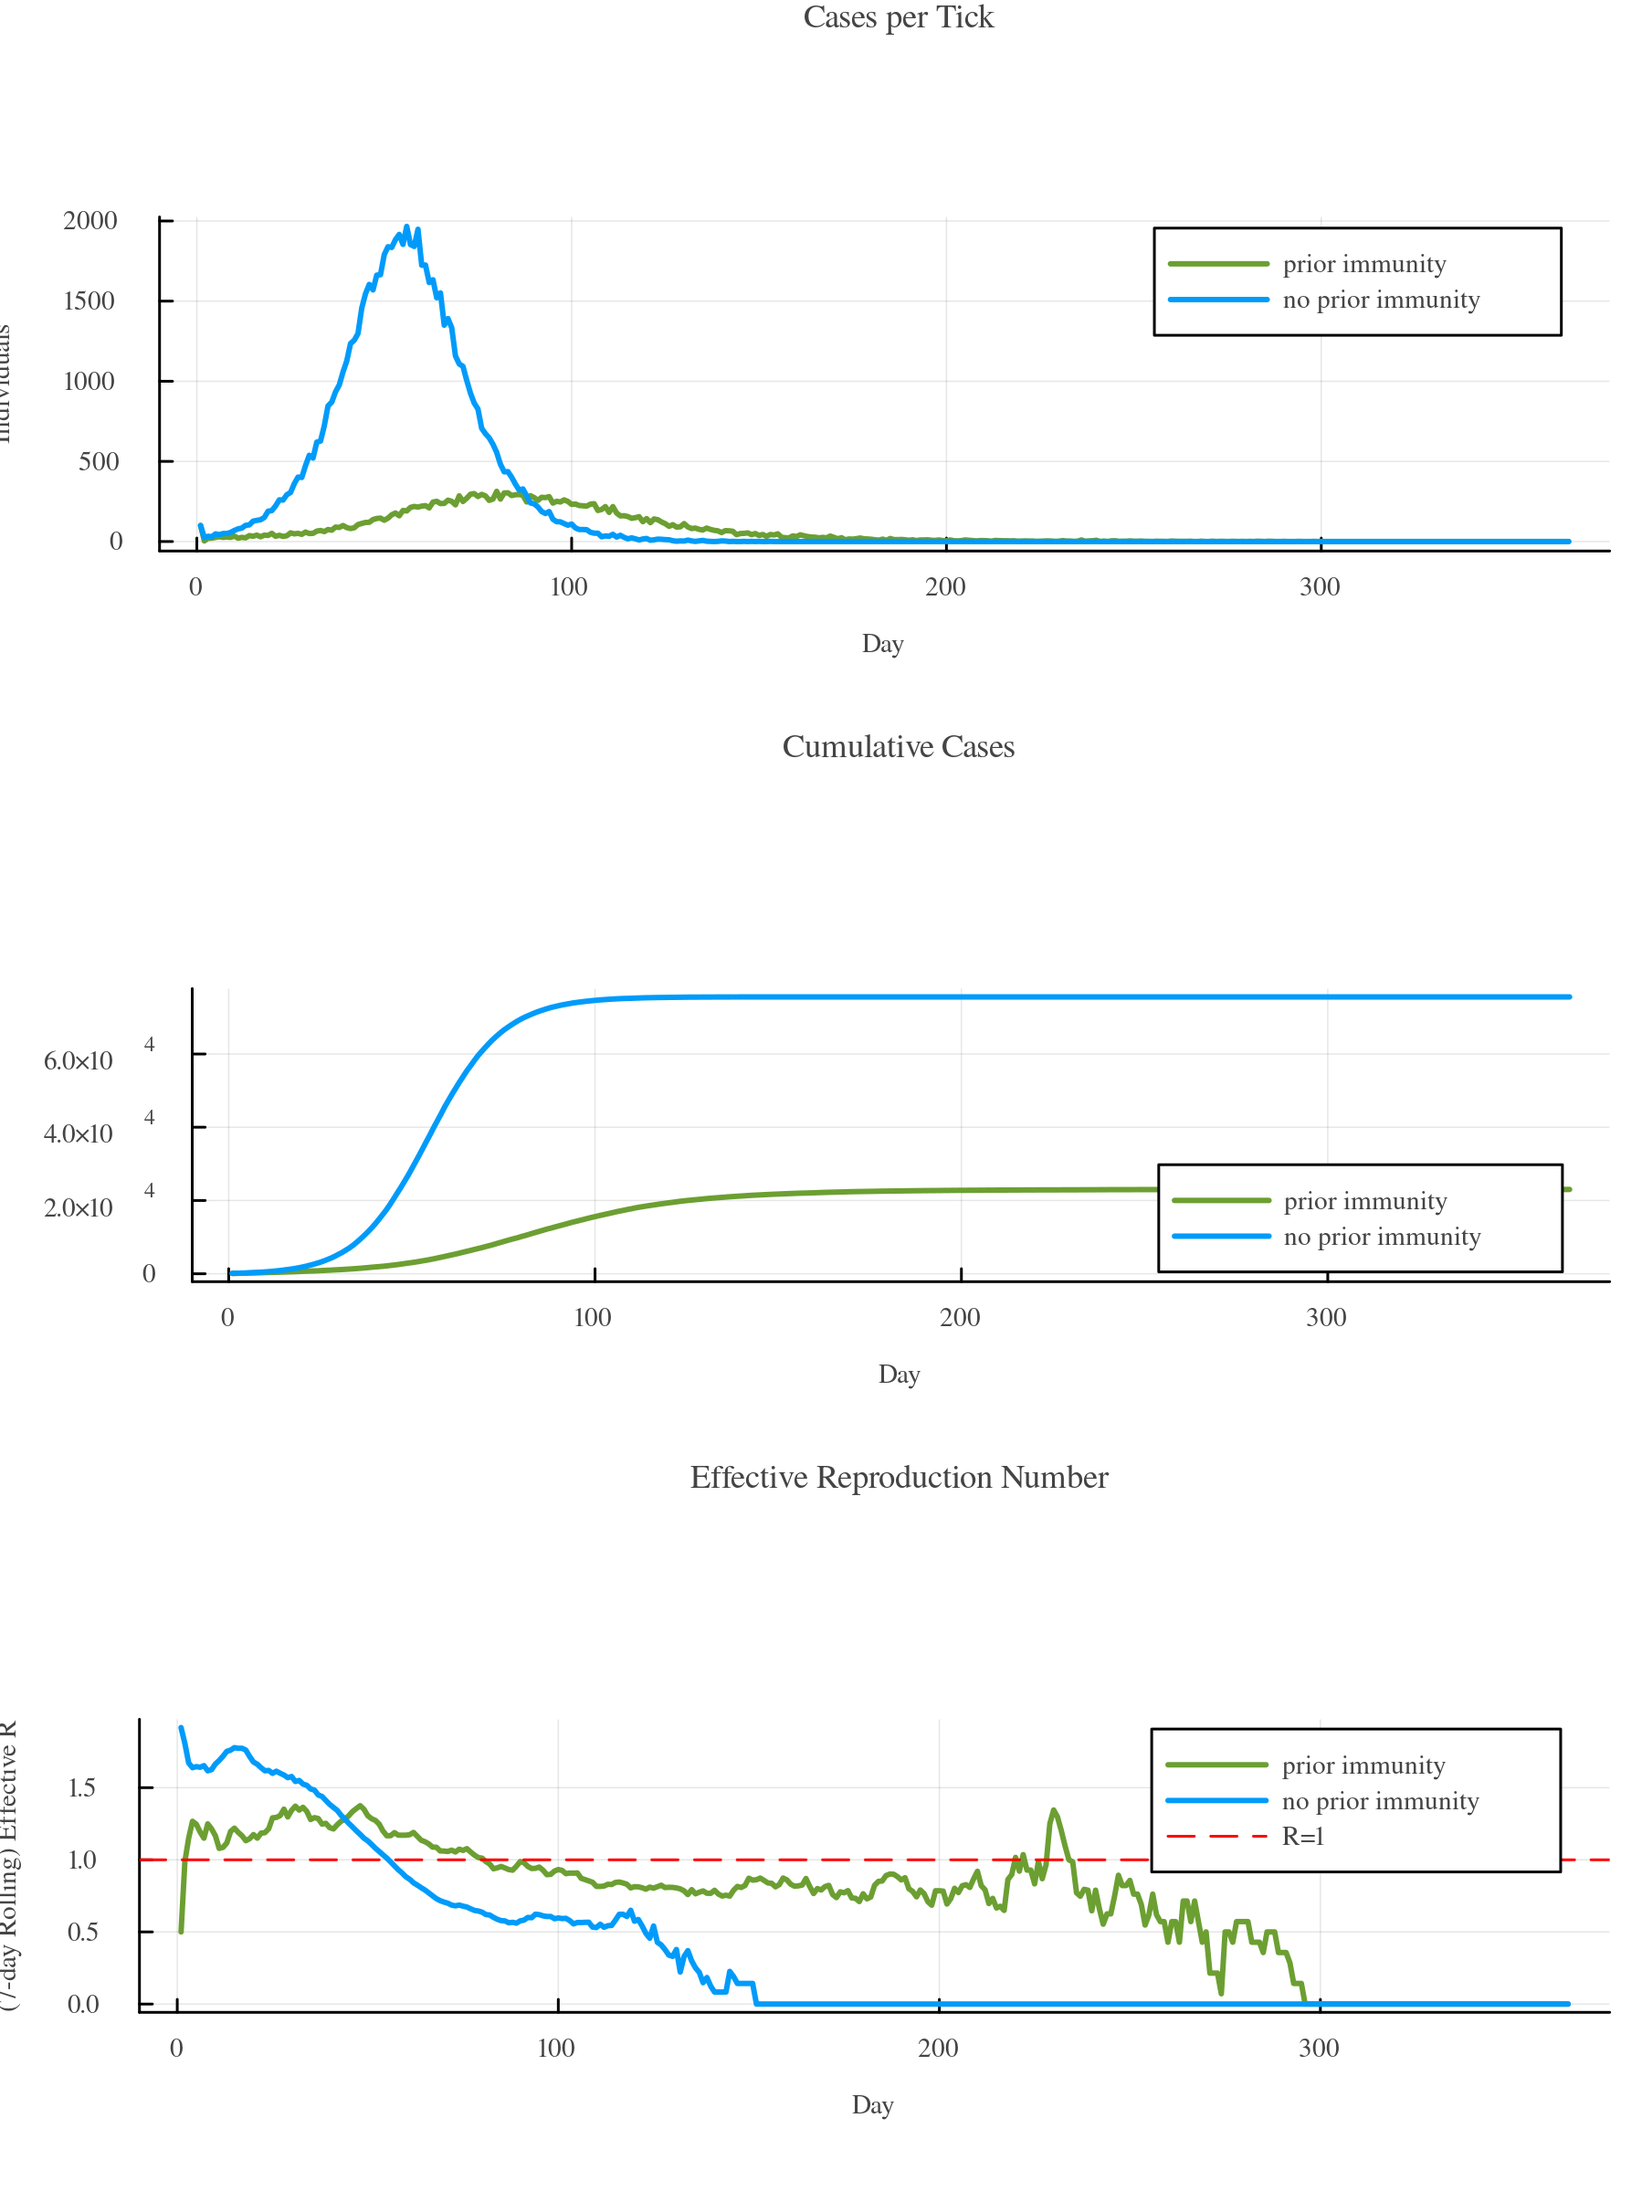
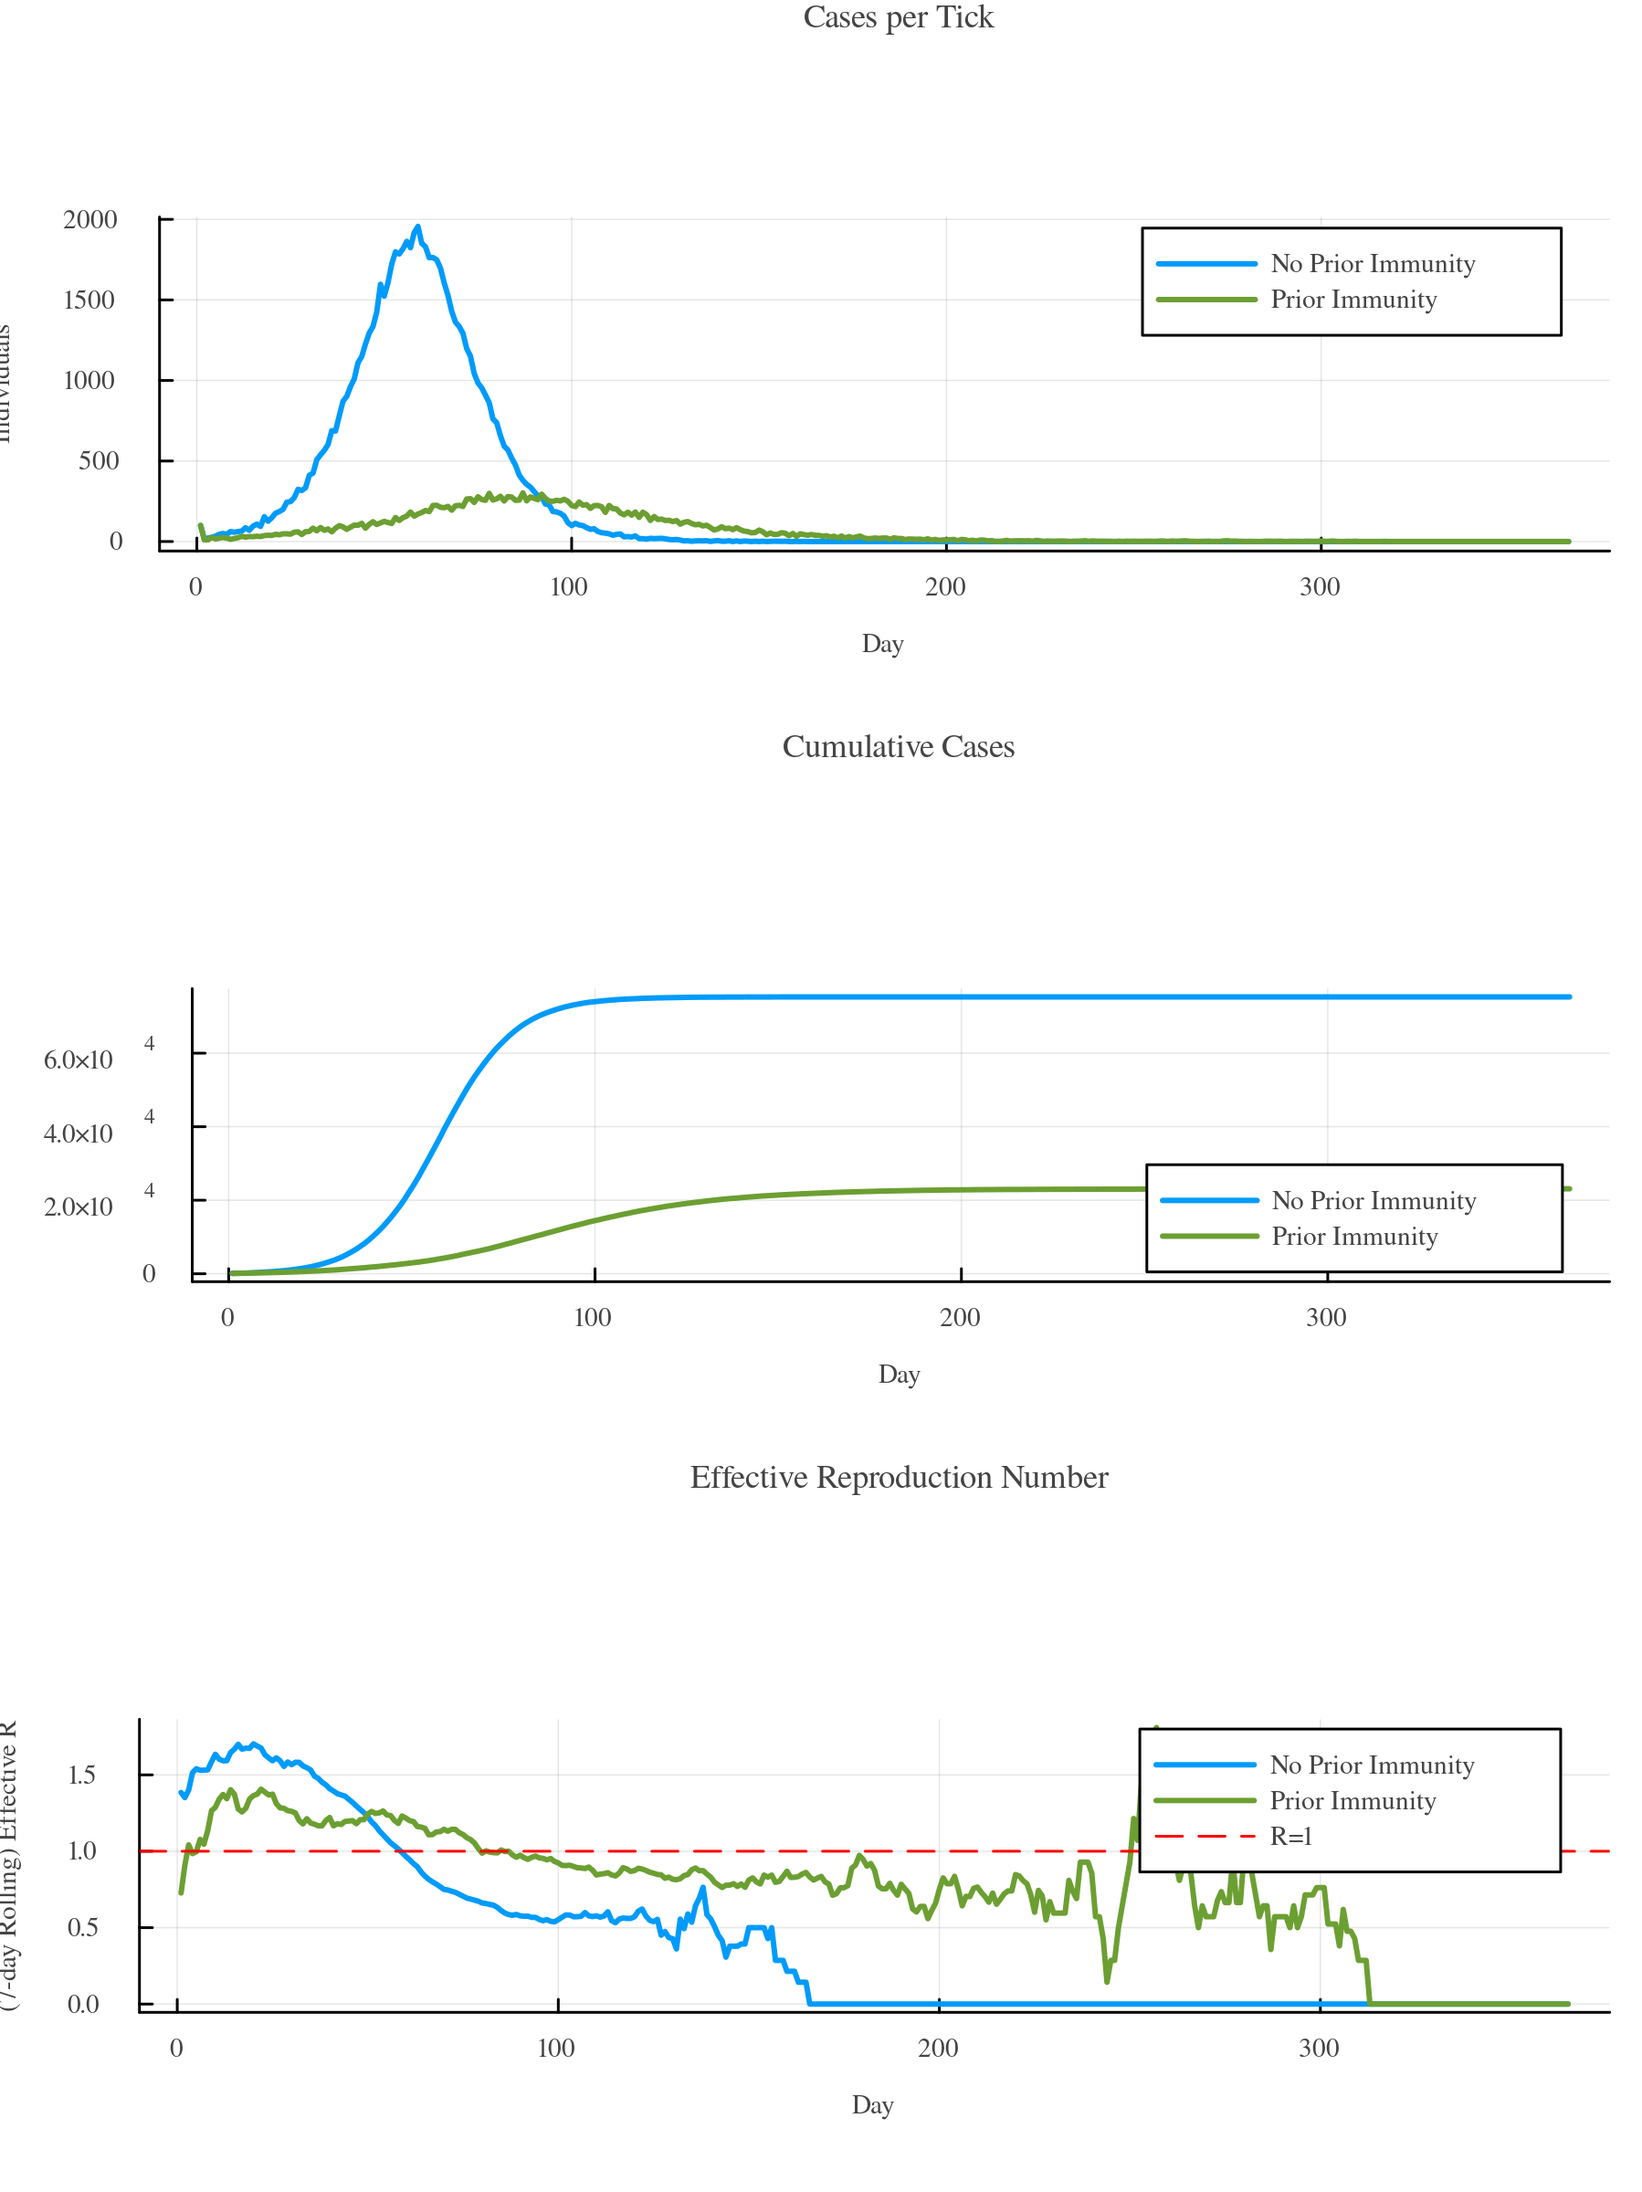
title-case plot labels, show the waning floor, regenerate prior immunity plot

diff --git a/docs/src/tut_configfiles.md b/docs/src/tut_configfiles.md
@@ -192,7 +192,7 @@ GEMS comes with four profiles:
 
 - `FullImmunity` (default): full protection after recovery or vaccination, which never wanes
 - `NoImmunity`: no protection at all
-- `ExponentialWaning`: protection halves every `halflife` ticks, down to a `floor`
+- `ExponentialWaning`: protection halves every `halflife` ticks, down to a `floor` (default `0`)
 - `SigmoidalWaning`: protection stays high at first, then falls steeply around `halflife` ticks
 
 To use waning immunity, set the profile in the pathogen section of your config file:
@@ -206,6 +206,7 @@ To use waning immunity, set the profile in the pathogen section of your config f
             type = "ExponentialWaning"
             [Pathogens.Covid19.immunity_profile.parameters]
                 halflife = 90
+                floor = 10
 ```
 
 If none of the built-in profiles fit, you can write your own.
@@ -267,7 +268,7 @@ By default, nobody is immune at the start of a simulation.
 `PriorImmunity` gives part of the population natural immunity, as if they had recovered `ticks_ago` ticks before the start.
 How much this protects depends on the pathogen's [immunity profile](@ref immunity-waning): with the default `FullImmunity`, these individuals cannot be infected at all, whatever `ticks_ago` is.
 
-In the example below, 20% of children, 35% of adults under 65 and 50% of people aged 65 and older are immune.
+In the example below, 20% of children, 35% of adults under 65 and 50% of people aged 65 and older are fully immune.
 Each of them recovered between 30 and 365 days before the start.
 
 ```julia
@@ -279,8 +280,8 @@ prior = PriorImmunity(
     fraction = [0.2, 0.35, 0.5],
     ticks_ago = Uniform(30, 365))
 
-baseline = Simulation(label = "no prior immunity")
-immune = Simulation(label = "prior immunity", prior_immunity = prior)
+baseline = Simulation(label = "No Prior Immunity")
+immune = Simulation(label = "Prior Immunity", prior_immunity = prior)
 run!(baseline)
 run!(immune)
 rd_b = ResultData(baseline)
